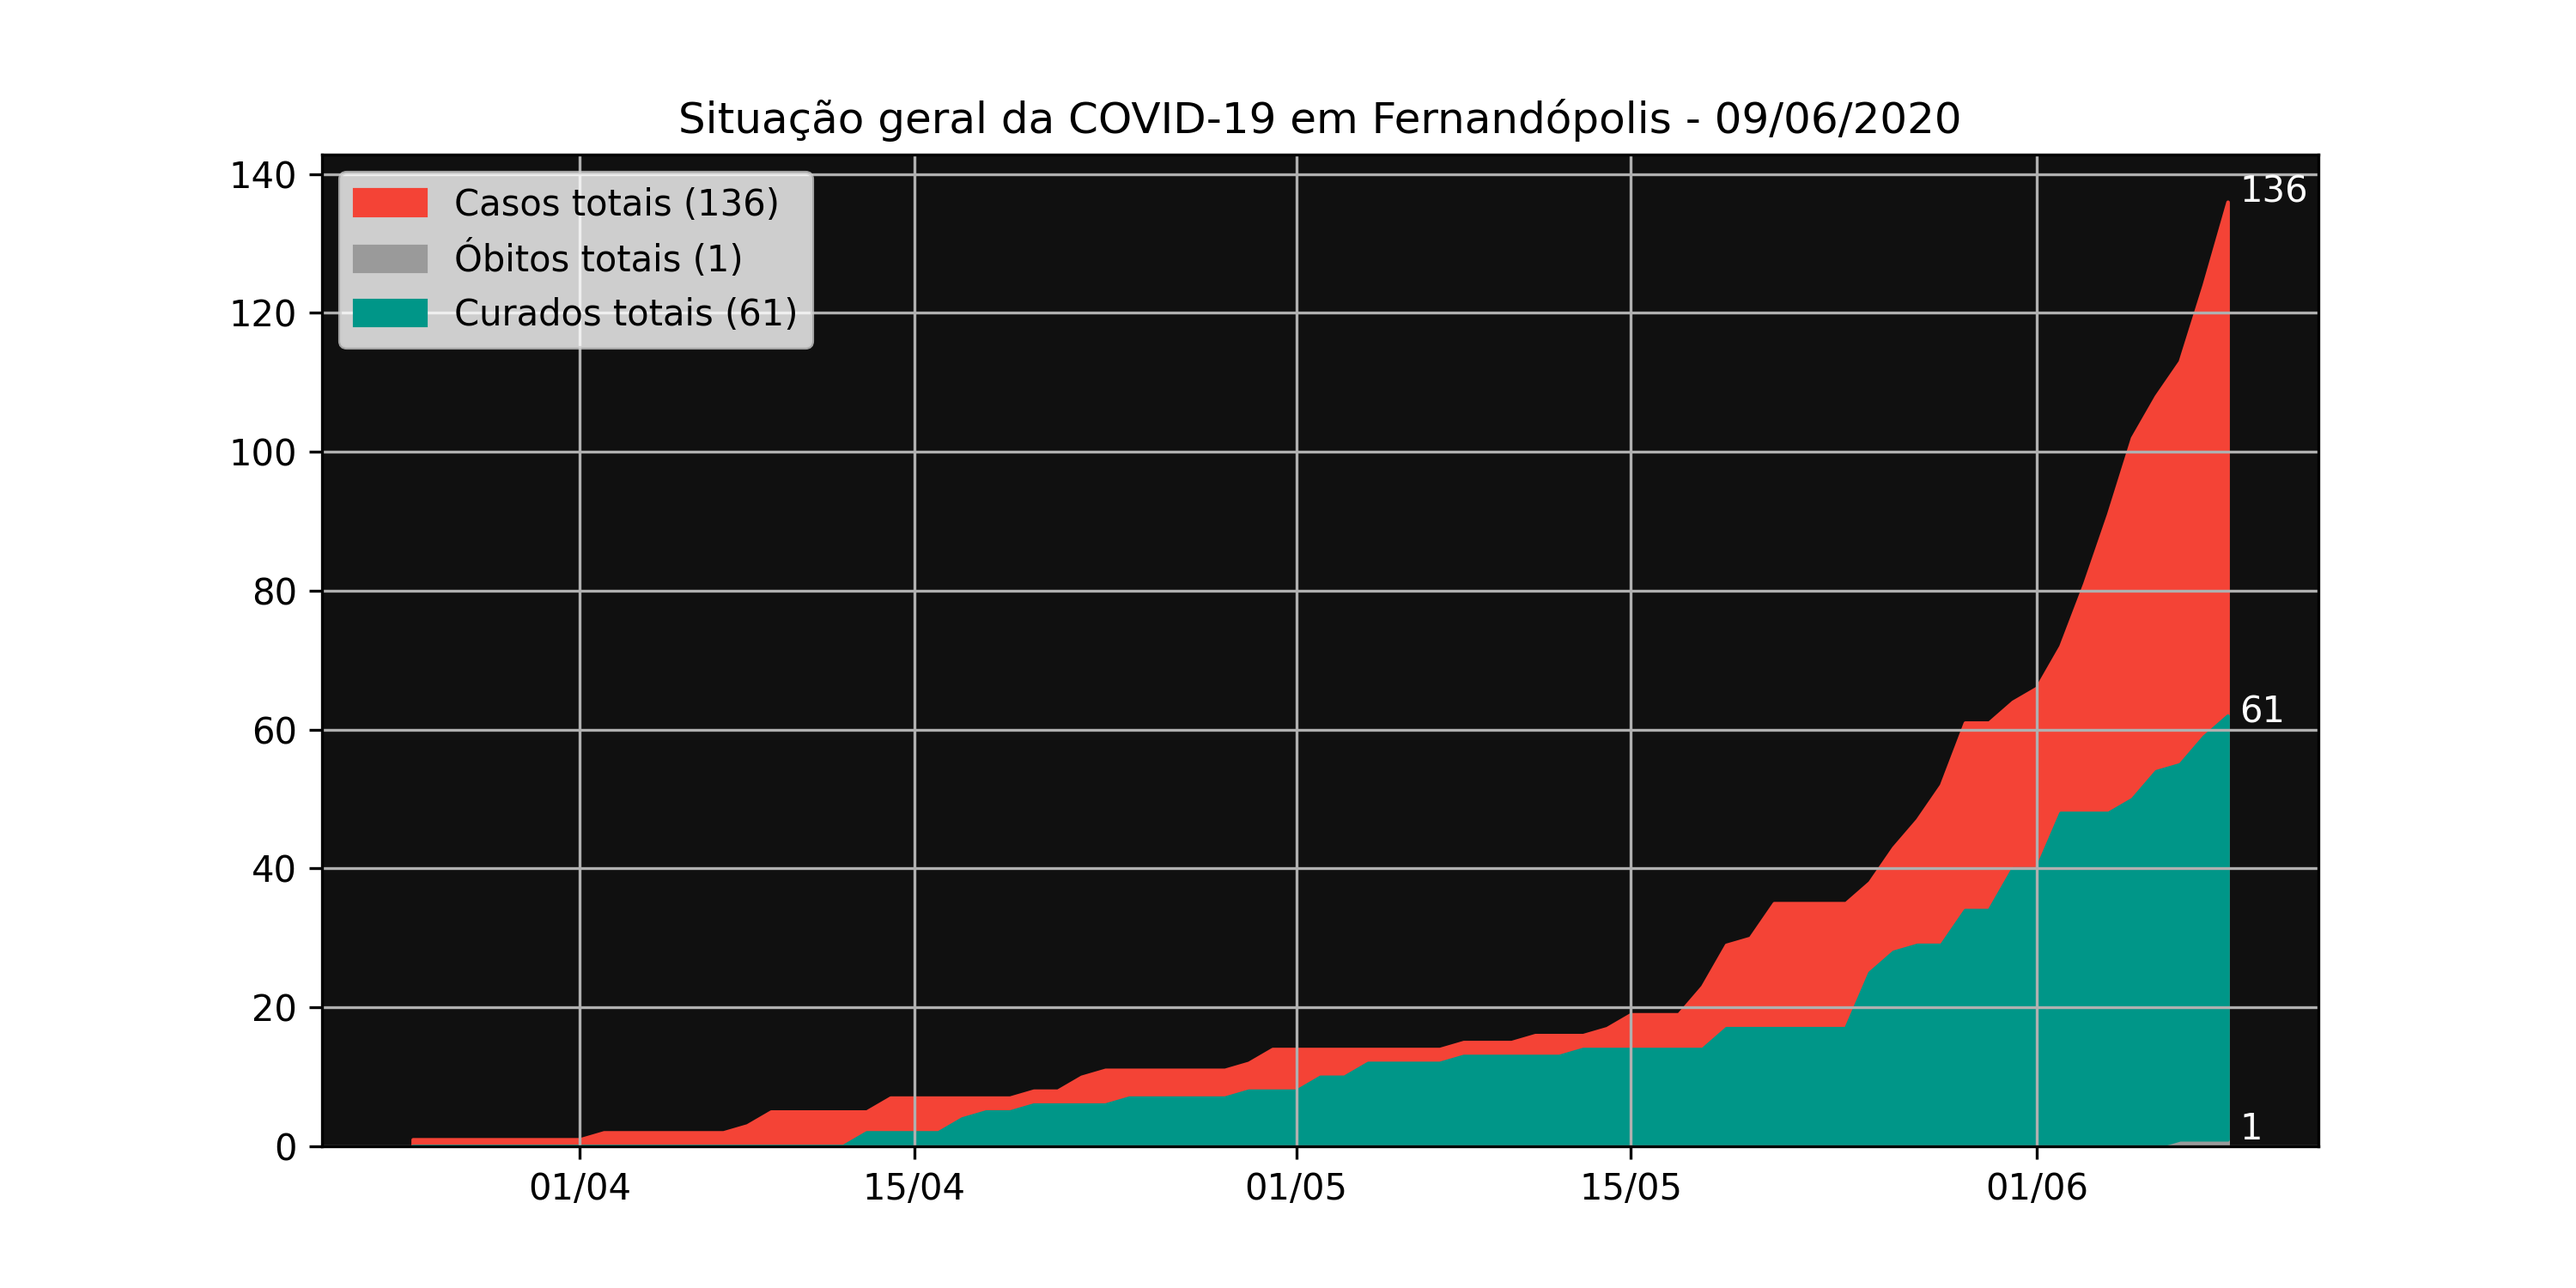
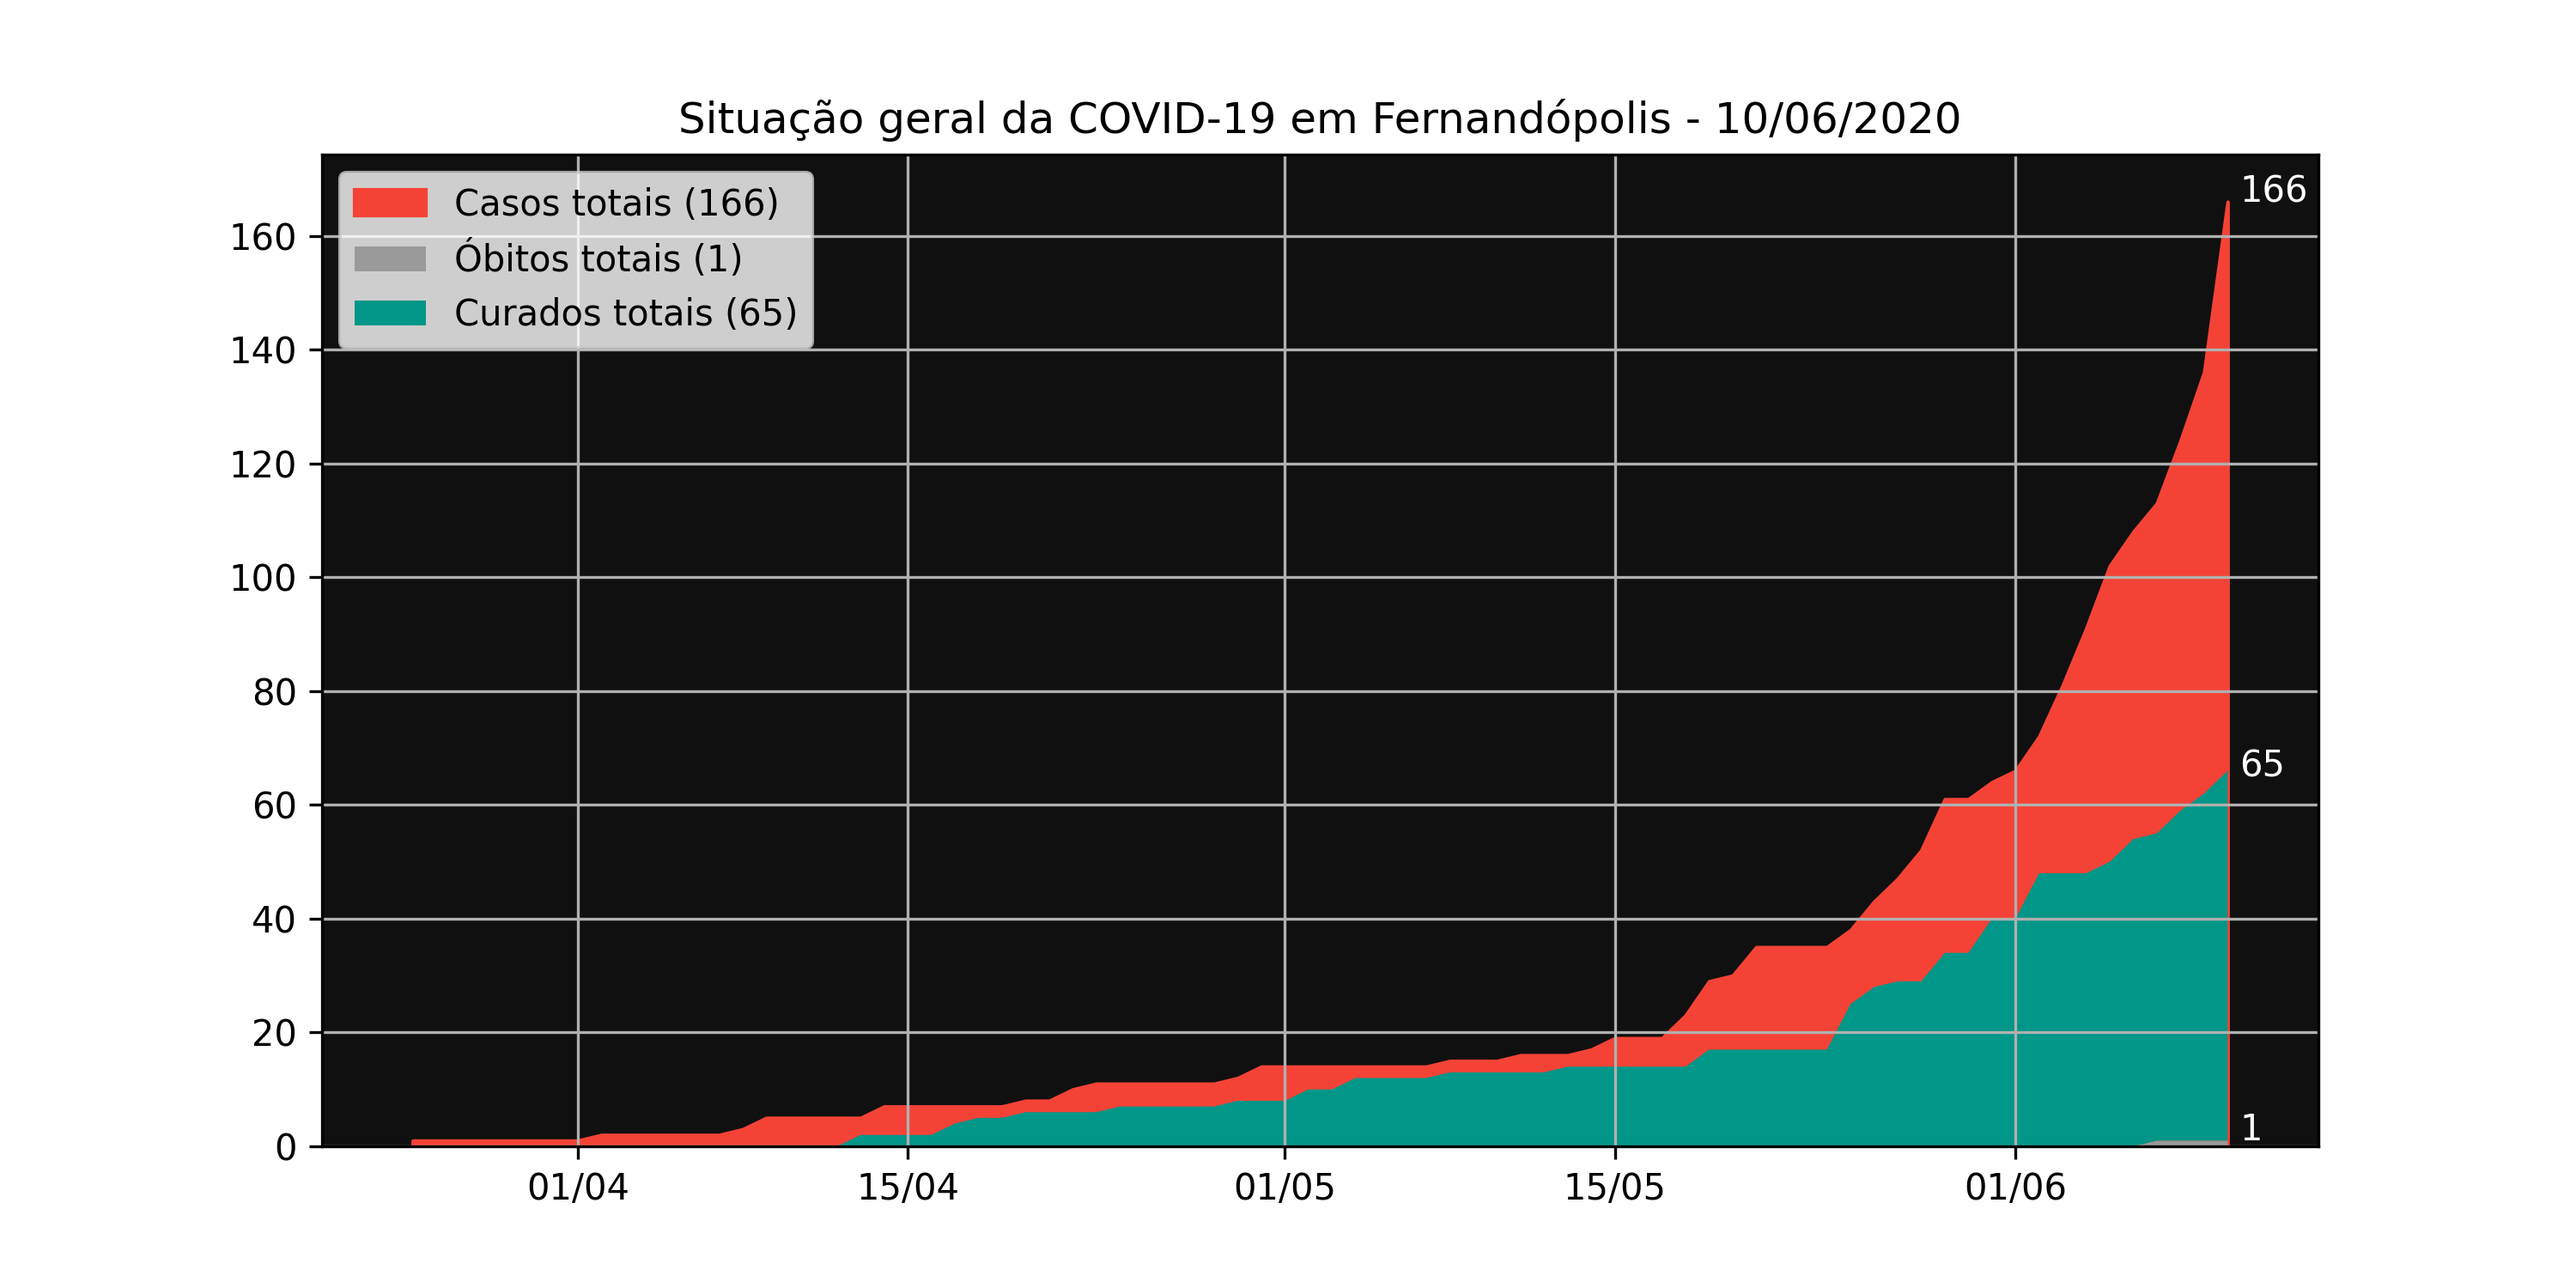
atualização qua 10 jun 2020 20:03:24 -03

diff --git a/chart-generator/main.py b/chart-generator/main.py
@@ -6,46 +6,77 @@ import pandas as pd
 
 
 def area_chart(ds, dateFmt):
+    # create a subplot
     fig, ax = plt.subplots()
+
+    # set figure size and dpi
     fig.set_size_inches(10, 5)
     fig.set_dpi(300)
-    ax.fill_between(ds['Data'], ds['Casos acumulados'],
-                    label='Casos totais ({})'.format(ds['Casos acumulados'].values[-1])).set_color('#f44336')
-    sp = ax.stackplot(ds['Data'], ds['Óbitos acumulados'], ds['Curados acumulados'],
-                      labels=['Óbitos totais ({})'.format(ds['Óbitos acumulados'].values[-1]), 'Curados totais ({})'.format(ds['Curados acumulados'].values[-1])])
+
+    # draw the curves
+    ax.fill_between(ds['Data'], ds['Casos acumulados'], color='#f44336',
+                    label='Casos totais ({})'.format(ds['Casos acumulados'].values[-1]))
+    ax.stackplot(ds['Data'], ds['Óbitos acumulados'], ds['Curados acumulados'], colors=['#9a9a9a', '#009688'], labels=[
+                 'Óbitos totais ({})'.format(ds['Óbitos acumulados'].values[-1]), 'Curados totais ({})'.format(ds['Curados acumulados'].values[-1])])
+
+    # write the total number at the end of the curves
     ax.text(ds['Data'].values[-1] + np.timedelta64(12, 'h'),
             ds['Casos acumulados'].values[-1], str(ds['Casos acumulados'].values[-1]), color='w')
-    ax.text(ds['Data'].values[-1] + np.timedelta64(12, 'h'), ds['Curados acumulados'].values[-1],
-            str(ds['Curados acumulados'].values[-1]), color='w')
-    ax.text(ds['Data'].values[-1] + np.timedelta64(12, 'h'), ds['Óbitos acumulados'].values[-1],
-            str(ds['Óbitos acumulados'].values[-1]), color='w')
-    sp[0].set_color('#9a9a9a')
-    sp[1].set_color('#009688')
+    ax.text(ds['Data'].values[-1] + np.timedelta64(12, 'h'),
+            ds['Curados acumulados'].values[-1], str(ds['Curados acumulados'].values[-1]), color='w')
+    ax.text(ds['Data'].values[-1] + np.timedelta64(12, 'h'),
+            ds['Óbitos acumulados'].values[-1], str(ds['Óbitos acumulados'].values[-1]), color='w')
+
+    # set chart style
     ax.xaxis.set_major_formatter(dateFmt)
     ax.grid(True)
     ax.set_facecolor('#101010')
-    ax.title.set_text(
-        'Situação geral da COVID-19 em Fernandópolis - {}'.format(ds['Data'].iloc[-1].strftime('%d/%m/%Y')))
+
+    # set chart title
+    ax.title.set_text('Situação geral da COVID-19 em Fernandópolis - {}'.format(
+        ds['Data'].iloc[-1].strftime('%d/%m/%Y')))
+
+    # draw legend on the upper left corner
     ax.legend(loc='upper left')
+
+    # save chart as a png
     fig.savefig('../images/area_chart.png')
 
 
-def line_chart(ds, dateFmt):
+def bar_chart(ds, dateFmt):
+    # create a subplot
     fig, ax = plt.subplots()
+
+    # set figure size and dpi
     fig.set_size_inches(10, 5)
     fig.set_dpi(300)
-    ax.plot(ds['Data'], ds['Casos acumulados'], label='Casos totais ({})'.format(
-        ds['Casos acumulados'].values[-1]))[0].set_color('#f44336')
-    ax.plot(ds['Data'], np.poly1d(np.polyfit(ds['Data'], ds['Casos acumulados'], 1)),
-            label='Linha de tendência')[0].set_color('#f44336')
-    ax.text(ds['Data'].values[-1] + np.timedelta64(12, 'h'),
-            ds['Casos acumulados'].values[-1], str(ds['Casos acumulados'].values[-1]), color='w')
+
+    # draw the bars
+    ax.bar(ds['Data'], ds['Novos casos'], color='#f44336', label='Casos novos de {} ({})'.format(
+        ds['Data'].iloc[-1].strftime('%d/%m/%Y'), ds['Novos casos'].values[-1]))
+
+    # write the number of cases at the top of each bar
+    for date in ds['Data']:
+        i = (date - datetime.fromisoformat('2020-03-25')).days
+        y = ds['Novos casos'].values[i]
+        if y != 0:
+            ax.text(date - np.timedelta64(12, 'h'),
+                    y + 0.25, str(y), color='w')
+
+    # set chart style
     ax.xaxis.set_major_formatter(dateFmt)
+    ax.grid(True)
     ax.set_facecolor('#101010')
-    ax.title.set_text('Casos confirmados de COVID-19 em Fernandópolis - {}'.format(
+
+    # set chart title
+    ax.title.set_text('Casos novos da COVID-19 em Fernandópolis - {}'.format(
         ds['Data'].iloc[-1].strftime('%d/%m/%Y')))
+
+    # draw legend on the upper left corner
     ax.legend(loc='upper left')
-    fig.savefig('../images/line_chart.png')
+
+    # save chart as a png
+    fig.savefig('../images/bar_chart.png')
 
 
 def main():
@@ -54,7 +85,7 @@ def main():
         lambda x: datetime.strptime(str(x), '%d/%m/%y'))
     dateFmt = mdates.DateFormatter('%d/%m')
     area_chart(ds, dateFmt)
-    # line_chart(ds, dateFmt)
+    bar_chart(ds, dateFmt)
 
 
 if __name__ == '__main__':

diff --git a/README.md b/README.md
@@ -7,6 +7,8 @@ Os dados aqui apresentados são retirados dos boletins epidemiológicos publicad
 
 ![Gráfico de área da COVID-19](./images/area_chart.png)
 
+![Gráfico em barras dos novos casos da COVID-19](./images/bar_chart.png)
+
 ## Criação dos gráficos
 
 Para gerar os gráficos com os últimos dados disponíveis no arquivo .csv, execute os comandos abaixo na pasta [chart-generator](./chart-generator).
